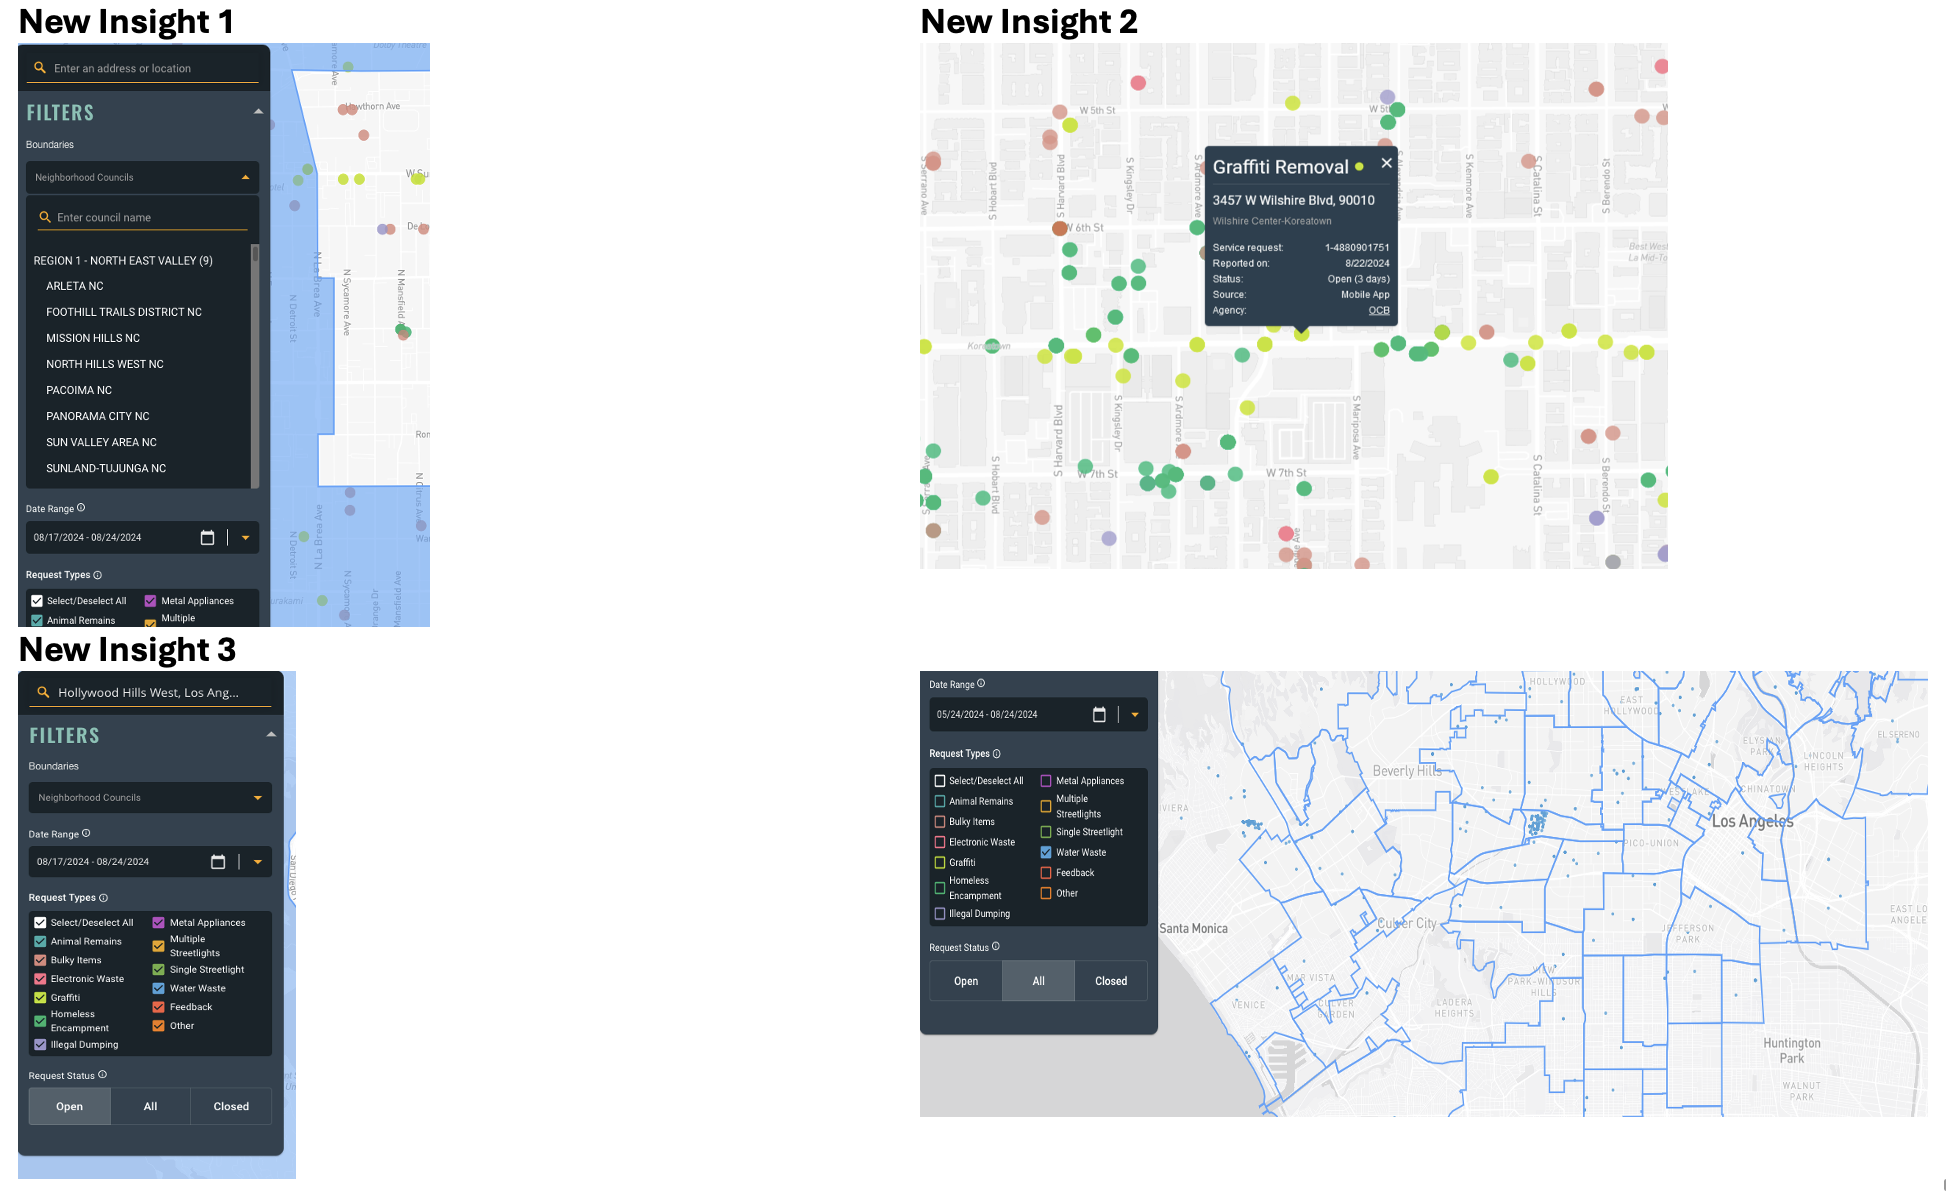
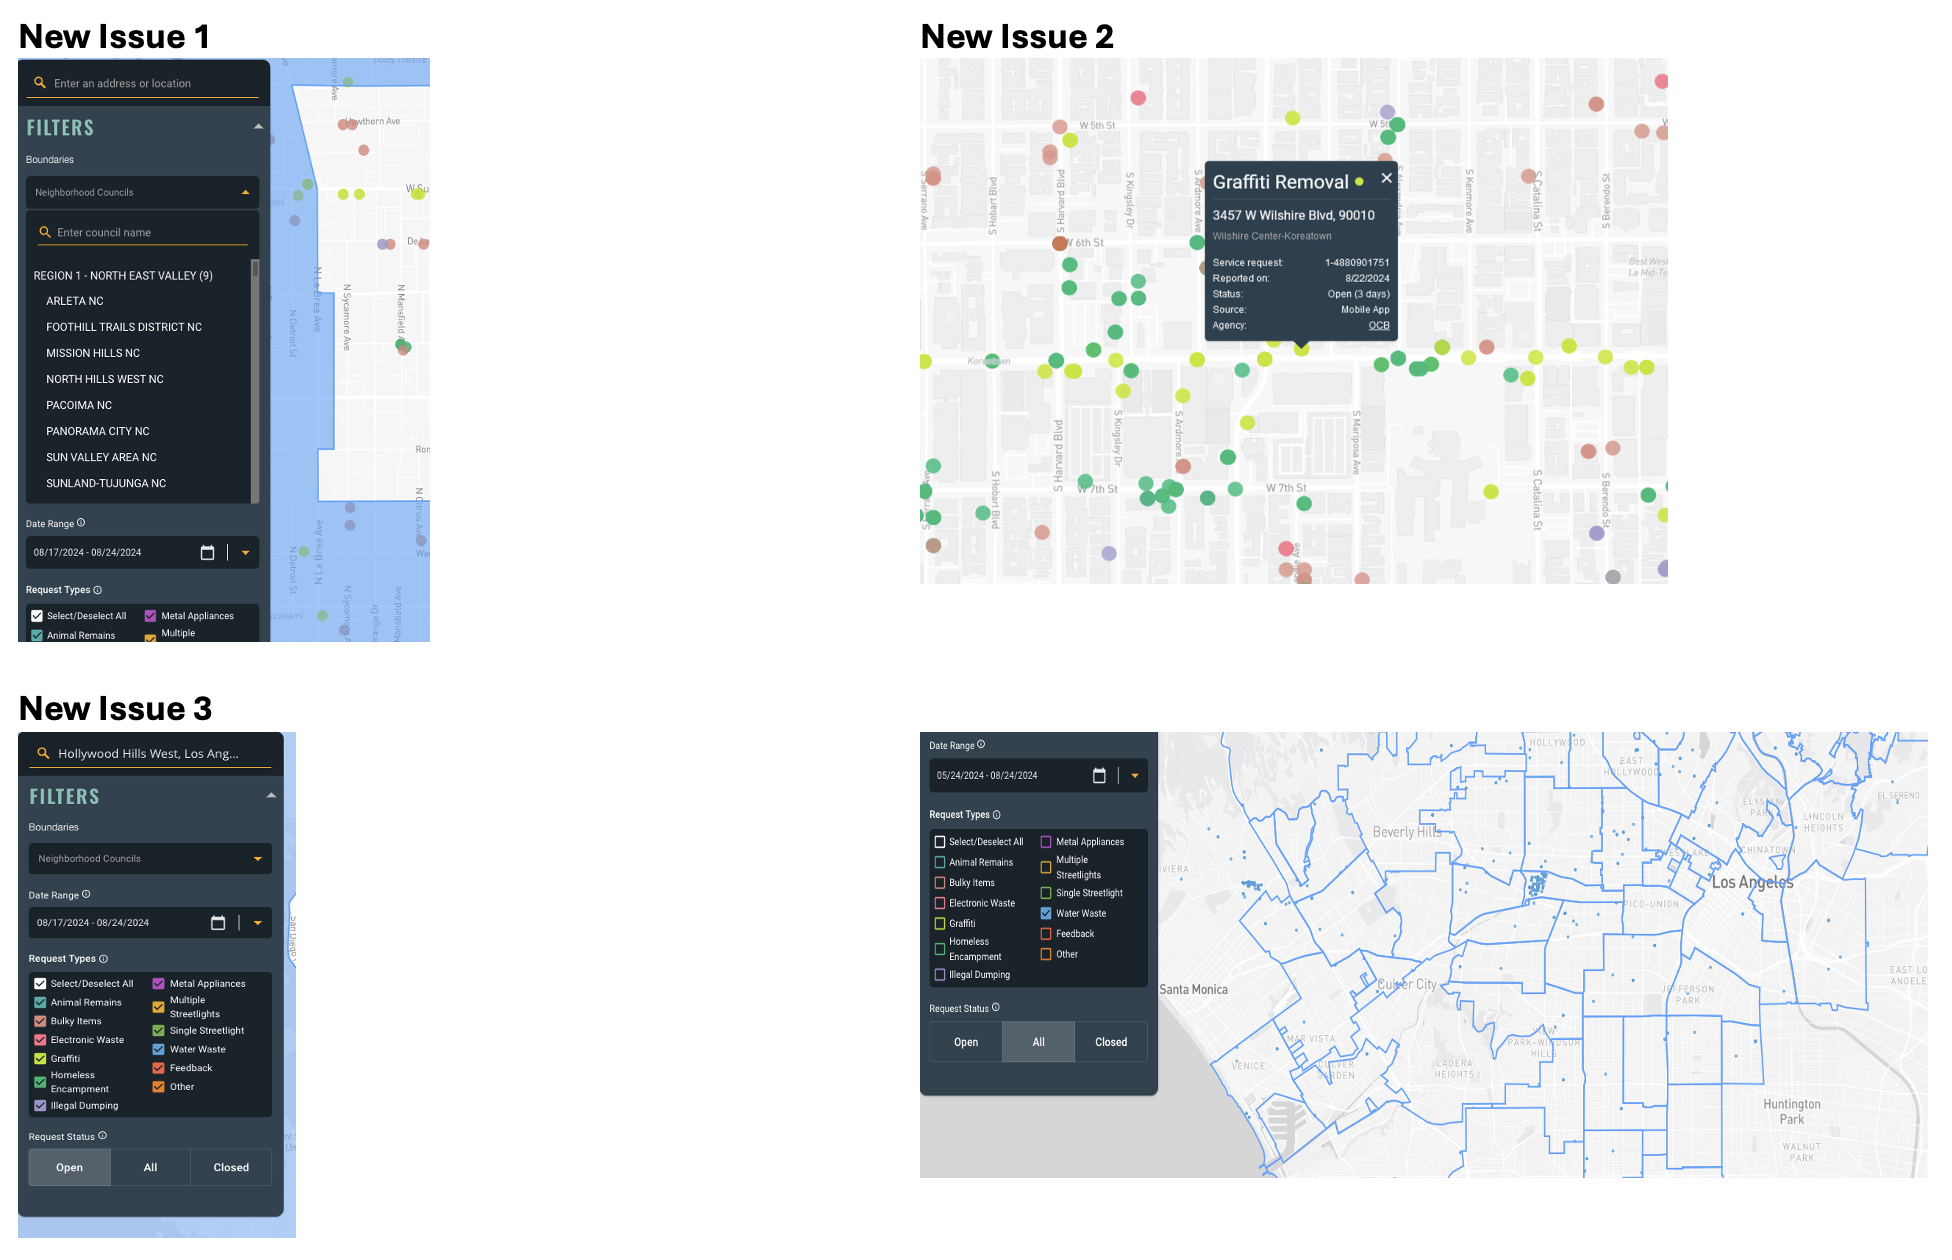
Update Hack for LA screenshots

diff --git a/case-study-hack-for-la.html b/case-study-hack-for-la.html
@@ -138,13 +138,7 @@
         <div class="cs-section fade-in">
           <h2 class="cs-section__title">Round 1: What We Found</h2>
 
-          <img
-            src="assets/hackforla-round1.png"
-            alt="311Data Round 1 usability findings — annotated screenshots of search, map, calendar, and popup issues"
-            class="cs-findings-img"
-            onerror="this.style.display='none';this.nextElementSibling.style.display='flex';"
-          >
-          <div class="cs-findings-placeholder" style="display:none;" aria-hidden="true">Round 1 screenshots — replace with your own</div>
+          <img src="assets/hackforla-round1.png" alt="311Data Round 1 usability findings — annotated screenshots of search, map, calendar, and popup issues" style="width:100%; border-radius:12px; box-shadow: 0 2px 8px rgba(0,0,0,0.08);">
 
           <div class="finding">
             <h3><strong>Finding 1 — Search Failed on Real User Input</strong></h3>
@@ -263,13 +257,7 @@
 
         <!-- Round 2 Screenshot -->
         <div class="cs-section fade-in">
-          <img
-            src="assets/hackforla-round2.png"
-            alt="311Data Round 2 usability findings — persistent NC name issue, calendar problems, and new region selection confusion"
-            class="cs-findings-img"
-            onerror="this.style.display='none';this.nextElementSibling.style.display='flex';"
-          >
-          <div class="cs-findings-placeholder" style="display:none;" aria-hidden="true">Round 2 screenshots — replace with your own</div>
+          <img src="assets/hackforla-round2.png" alt="311Data Round 2 usability findings — persistent issues and new problems from the redesign" style="width:100%; border-radius:12px; box-shadow: 0 2px 8px rgba(0,0,0,0.08);">
         </div>
 
         <!-- Research Impact -->